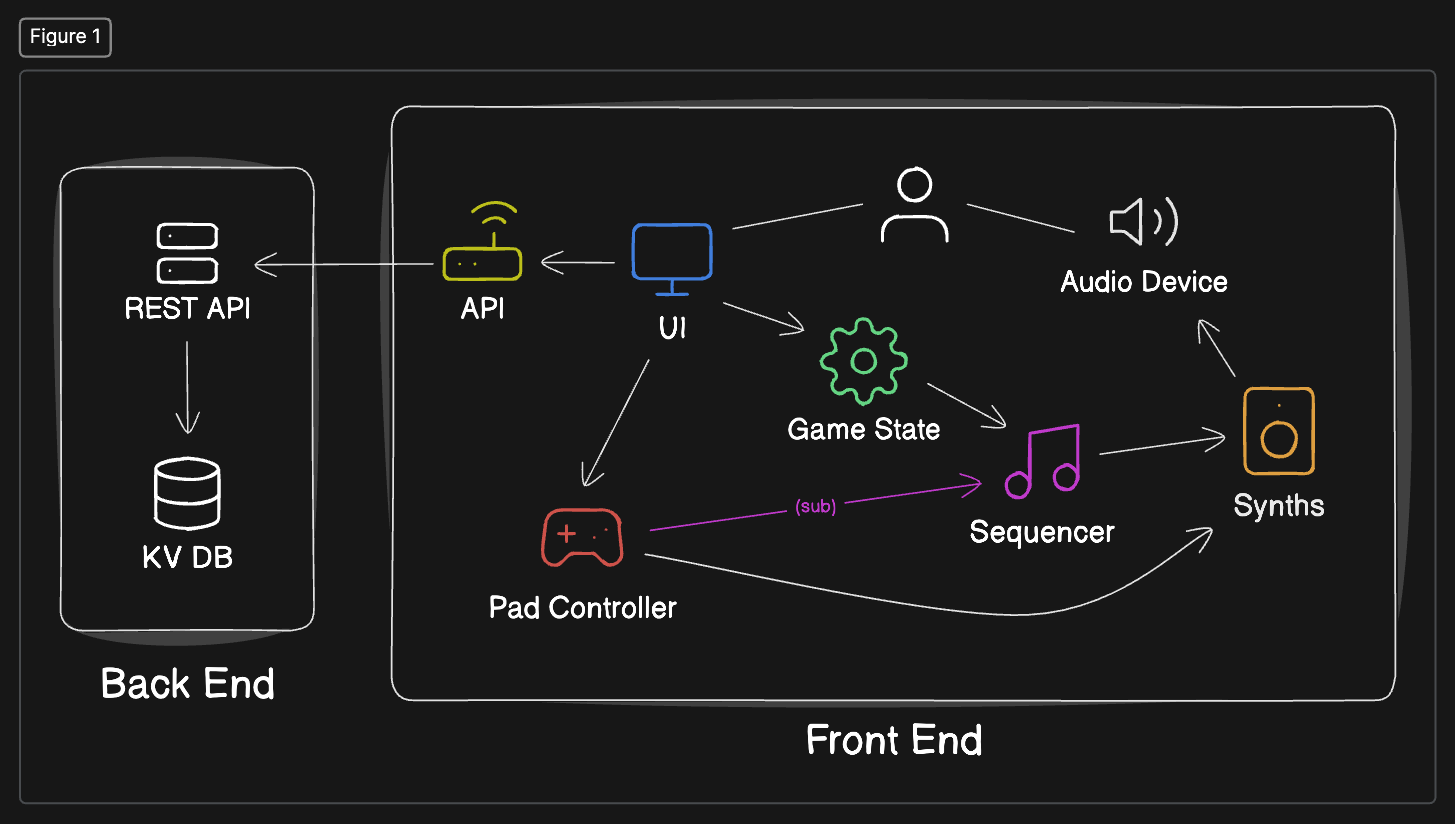
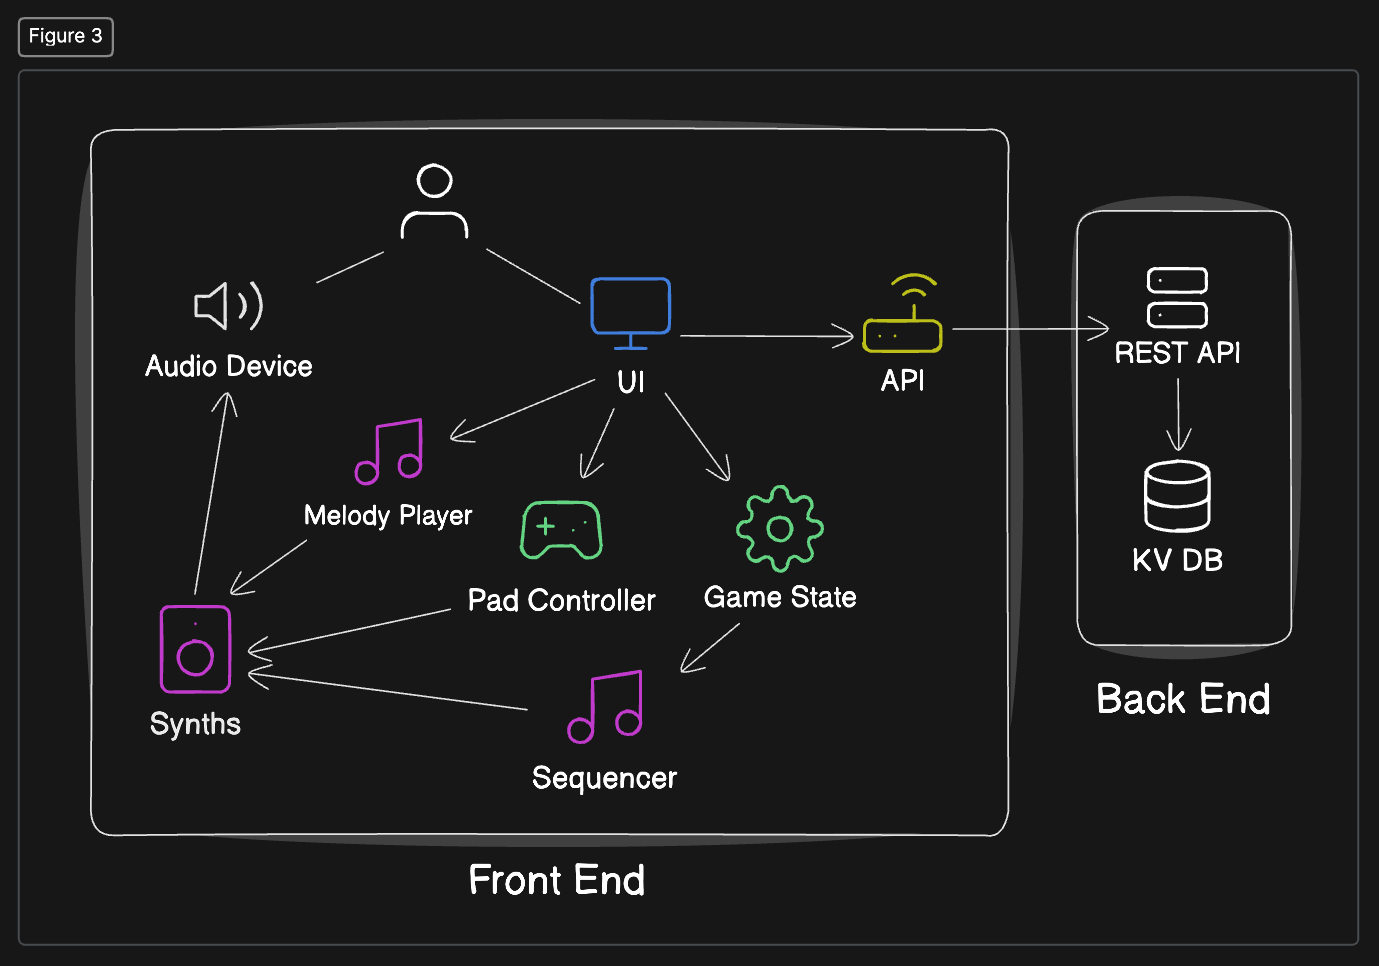
extract melody player (#73)
* extract melody player

* fixes

* remove unused var

* update diag

diff --git a/client/src/services/sequencer/sequencer.ts b/client/src/services/sequencer/sequencer.ts
@@ -1,13 +1,8 @@
 import * as Tone from 'tone';
 import type { NoteOctave } from '../synth';
-import { melodies } from './melodies';
-import { delay } from '../../utils/delay';
 import { MonoSynth } from '../synth/mono-synth';
 
 const sequenceSynth = new MonoSynth(new Tone.Synth());
-const melodySynth = new MonoSynth(
-  new Tone.Synth({ oscillator: { type: 'amsquare16' }, volume: -3 }),
-);
 
 const INIT_NOTE_DURATION_S = 0.3;
 
@@ -58,14 +53,14 @@ class Sequencer {
   private _sequenceCompleteId = 0;
 
   /** plays the sequence and resolves when complete */
-  async playSequence() {
-    this.stopSequence();
+  async play() {
+    this.stop();
     return new Promise((res) => {
       const sequenceDuration = this.length * this.noteDuration.s;
 
       this._sequenceCompleteId = this._transport.schedule(
         () => {
-          this.stopSequence();
+          this.stop();
           res(undefined);
         },
         // resolve after the sequence duration, but take a little off since
@@ -78,29 +73,15 @@ class Sequencer {
     });
   }
 
-  stopSequence() {
+  stop() {
     this._transport.stop(Tone.now());
     this._transport.clear(this._sequenceCompleteId);
     this._transport.position = 0;
   }
 
-  resetSequence() {
+  reset() {
     this._sequence.clear();
     this._sequence.events = [];
-  }
-
-  async playMelody(melody: keyof typeof melodies) {
-    // let any last note trail off a bit before playing
-    await delay(this.noteDuration.ms / 3);
-    const melodyNotes = melodies[melody];
-    const now = Tone.now();
-    for (const { note, duration, offset } of melodyNotes) {
-      melodySynth.playNote({
-        note,
-        duration,
-        time: now + offset,
-      });
-    }
   }
 }
 

diff --git a/client/src/services/melody-player/melody-player.ts b/client/src/services/melody-player/melody-player.ts
@@ -1,0 +1,26 @@
+import * as Tone from 'tone';
+import { melodies } from './melodies';
+import { MonoSynth } from '../synth';
+import { delay } from '../../utils/delay';
+
+const TIMING_BUFFER = 100;
+
+const melodySynth = new MonoSynth(
+  new Tone.Synth({ oscillator: { type: 'amsquare16' }, volume: -3 }),
+);
+
+export const melodyPlayer = {
+  play: async (melody: keyof typeof melodies) => {
+    // let any last note trail off a bit before playing
+    await delay(TIMING_BUFFER);
+    const melodyNotes = melodies[melody];
+    const now = Tone.now();
+    for (const { note, duration, offset } of melodyNotes) {
+      melodySynth.playNote({
+        note,
+        duration,
+        time: now + offset,
+      });
+    }
+  },
+};

diff --git a/client/src/components/game-over/game-over-modal.tsx b/client/src/components/game-over/game-over-modal.tsx
@@ -4,7 +4,7 @@ import { Modal } from '../ui-elements/modal';
 import { ANIMATION_DURATION } from '../../config';
 import { NewHighScore } from './new-high-score';
 import { CurrentHighScore } from '../shared/current-high-score';
-import { sequencer } from '../../services/sequencer';
+import { melodyPlayer } from '../../services/melody-player';
 
 export interface GameOverModalProps {
   isGameOver: boolean;
@@ -72,7 +72,7 @@ export const GameOverModal = (props: GameOverModalProps) => {
     if (!isModalOpen) {
       return;
     }
-    sequencer.playMelody(showNewHighScore ? 'highScore' : 'gameOver');
+    melodyPlayer.play(showNewHighScore ? 'highScore' : 'gameOver');
   }, [isModalOpen, showNewHighScore]);
 
   return (

diff --git a/client/src/components/pad-controller/use-pad-controller.ts b/client/src/components/pad-controller/use-pad-controller.ts
@@ -1,10 +1,11 @@
 import { useCallback } from 'react';
-import { sequencer } from './../../services/sequencer';
 import { useActivePads } from './use-active-pads';
 import { usePadKeyListeners } from './use-pad-key-listeners';
 import type { PadId } from './types';
 import { pads } from './schema';
 import { MonoSynth } from '../../services/synth/mono-synth';
+
+const NOTE_DURATION_S = 0.3;
 
 export const userSynth = new MonoSynth();
 
@@ -30,7 +31,7 @@ export const usePadController = ({
       setUserPadActive(padId);
       userSynth.playNote({
         note: pads[padId].tone,
-        duration: sequencer.noteDuration.s,
+        duration: NOTE_DURATION_S,
       });
       onUserPadDown(padId);
     },

diff --git a/client/src/services/melody-player/melodies.ts b/client/src/services/melody-player/melodies.ts
@@ -1,0 +1,16 @@
+export const melodies = {
+  gameOver: [
+    { note: 'C4', duration: '8n', offset: 0 },
+    { note: 'G3', duration: '8n', offset: 0.25 },
+    { note: 'E3', duration: '8n', offset: 0.5 },
+    { note: 'C3', duration: '4n', offset: 0.75 },
+  ],
+  highScore: [
+    { note: 'C4', duration: '16n', offset: 0 },
+    { note: 'E4', duration: '16n', offset: 0.125 },
+    { note: 'G4', duration: '16n', offset: 0.25 },
+    { note: 'C5', duration: '8n', offset: 0.375 },
+    { note: 'G4', duration: '8n', offset: 0.5 },
+    { note: 'C5', duration: '4n', offset: 0.75 },
+  ],
+};

diff --git a/client/src/components/game-machine/logic.ts b/client/src/components/game-machine/logic.ts
@@ -23,6 +23,6 @@ export const gameLogic = {
   nextSequence: async () => {
     sequencer.addRandomNote(Object.values(pads).map((p) => p.tone));
     // play sequence after a short delay to ensure all is scheduled
-    return delay(TIMING_BUFFER_MS, () => sequencer.playSequence());
+    return delay(TIMING_BUFFER_MS, () => sequencer.play());
   },
 };

diff --git a/client/src/components/gamepad/high-score.tsx b/client/src/components/gamepad/high-score.tsx
@@ -15,7 +15,7 @@ export const HighScore = () => {
       <Button
         variant="secondary"
         onClick={openModal}
-        disabled={query.isFetching || query.isError}
+        disabled={query.isFetching}
       >
         High Score:<span className="mx-1"></span>
         <Spinner isSpinning={query.isFetching}>

diff --git a/client/src/components/game-machine/reducer.ts b/client/src/components/game-machine/reducer.ts
@@ -15,7 +15,7 @@ export const gameMachineReducer = (
       return { ...nextMachineState, state: action.to };
     }
     case 'startNewGame': {
-      sequencer.resetSequence();
+      sequencer.reset();
       return { ...NEW_GAME_STATE, state: 'computerTurn' };
     }
     case 'input': {

diff --git a/client/src/services/melody-player/index.ts b/client/src/services/melody-player/index.ts
@@ -1,0 +1,1 @@
+export { melodyPlayer } from './melody-player';
